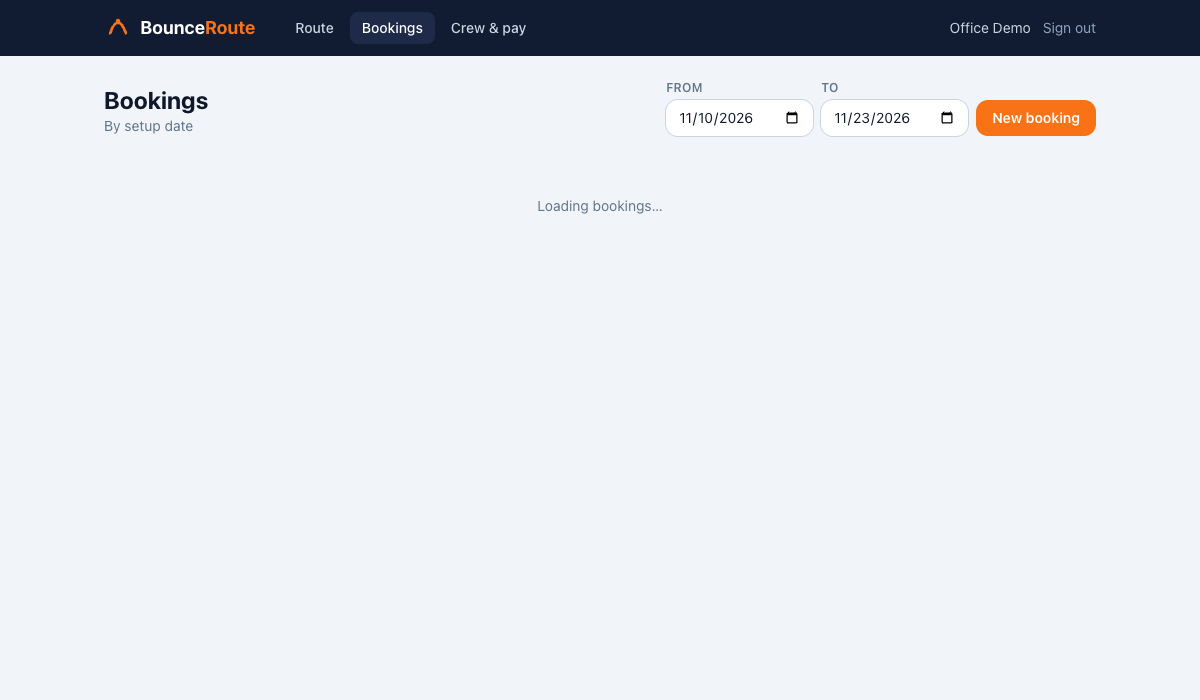
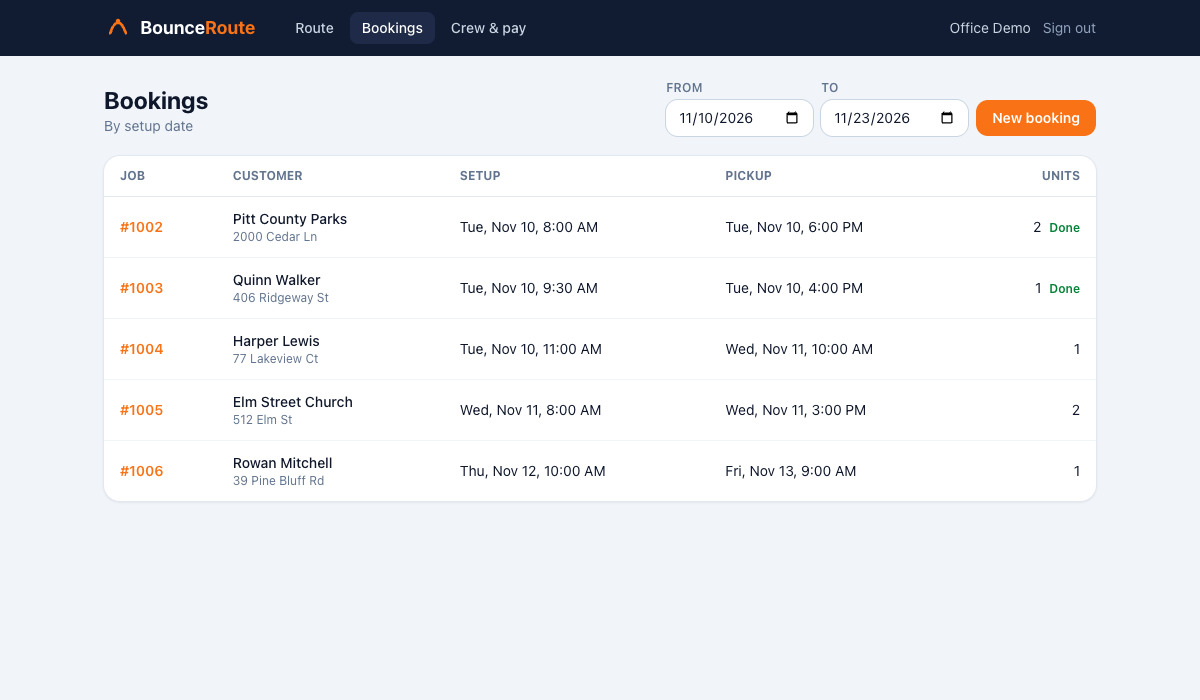
Fix Bookings list failing with a server error
EF Core couldn't translate sorting by a property of the response record,
so GET /api/bookings threw. Sort by the setup time before projecting.
Adds a test for the list (it had none), and replaces the screenshot that
showed the error.

diff --git a/api/BounceRoute.Api.Tests/BookingTests.cs b/api/BounceRoute.Api.Tests/BookingTests.cs
@@ -32,6 +32,19 @@ public sealed class BookingTests(ApiFactory factory) : IClassFixture<ApiFactory>
 	}
 
 	[Fact]
+	public async Task Booking_list_shows_bookings_by_setup_time()
+	{
+		var later = await CreateBookingAsync("2030-03-20T13:00:00-04:00", "2030-03-20T18:00:00-04:00", []);
+		var earlier = await CreateBookingAsync("2030-03-20T08:00:00-04:00", "2030-03-21T09:00:00-04:00", []);
+
+		var list = await (await client.GetAsync("/api/bookings?from=2030-03-20&to=2030-03-20")).ReadAsync<List<BookingSummaryDto>>();
+
+		Assert.Equal([earlier.Id, later.Id], list.Select(booking => booking.Id));
+		Assert.Equal(1, list[0].UnitCount);
+		Assert.False(list[0].IsComplete);
+	}
+
+	[Fact]
 	public async Task Late_night_job_belongs_to_the_business_day_not_the_utc_day()
 	{
 		// 11pm Eastern is already the next day in UTC.

diff --git a/api/BounceRoute.Api/Endpoints/BookingEndpoints.cs b/api/BounceRoute.Api/Endpoints/BookingEndpoints.cs
@@ -34,6 +34,8 @@ public static class BookingEndpoints
 
 		return await db.Bookings
 			.Where(booking => booking.Jobs.Any(job => job.Type == JobType.Setup && job.ScheduledAt >= start && job.ScheduledAt < end))
+			// Sort before projecting: EF Core can't translate ordering by a property of the DTO.
+			.OrderBy(booking => booking.Jobs.Where(job => job.Type == JobType.Setup).Min(job => job.ScheduledAt))
 			.Select(booking => new BookingSummaryDto(
 				booking.Id,
 				booking.JobNumber,
@@ -43,7 +45,6 @@ public static class BookingEndpoints
 				booking.Jobs.First(job => job.Type == JobType.Pickup).ScheduledAt,
 				booking.Items.Count(item => item.IsUnit),
 				booking.Jobs.All(job => job.Status == JobStatus.Done)))
-			.OrderBy(summary => summary.SetupAt)
 			.ToListAsync();
 	}
 
